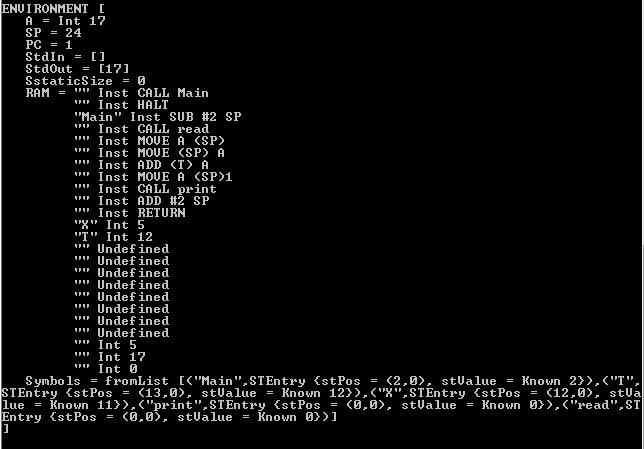
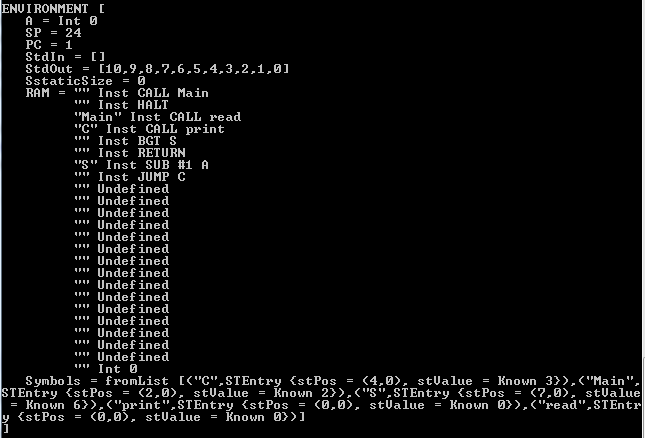
Added countdown program. Added to results in report.

Changed region(s): [[0.0, 0.0, 1.0, 1.0], [0.0621, 0.0, 0.1863, 0.089], [0.0, 0.0, 0.0311, 0.0297]]

diff --git a/report/Report.tex b/report/Report.tex
@@ -32,7 +32,7 @@ We did stuff. And more stuff, then stuff happened.
 \listoffigures
 
 \section{Introduction}
-The goal of this project was to create a program that could compile, execute and displaye a C program. It could then be used to go step-by-step through a C program in order to show how the memory and registers are effected by each line of C code. In order to learn functional programming and Mash as a template, this program was created using Haskell. The project could be divided into 5 separate sections, the C parser, the assembly parser, C to assembly code generation, the emulator and the GUI. These were then allocated to three groups, one group would create the C Parser, another the Assembly Parser and Symbol Table, and the last group the Emulator and GUI. The Code generation which converts a C Parse tree to an Assembly Parse tree was not assigned to any group. A diagram of this can be see in Figure \ref{fig:ProjectDiagram}.
+The goal of this project was to create a program that could compile, execute and displaye a C program. It could then be used to go step-by-step through a C program in order to show how the memory and registers are effected by each line of C code. In order to learn functional programming and Mash as a template, this program was created using Haskell. The project could be divided into 5 separate sections, the C parser, the assembly parser, C to assembly code generation, the emulator and the GUI. These were then allocated to three groups, one group would create the C Parser, another the Assembly Parser and Symbol Table, and the last group the Emulator and GUI. The Code generation which converts a C Parse tree to an Assembly Parse tree was not assigned to any group. A diagram of this can be see in Figure~\ref{fig:ProjectDiagram}.
 
 \begin{figure}[h]
 \centering
@@ -81,7 +81,7 @@ Upon review at the end of the project, many 'actions' within the emulator are re
 \subsubsection{Cross-Platform GUI Solution}
 The first task of our group was to determine how we would create a GUI using Haskell that could be completely cross-platform. Two methods were initially recommended, using Haskell to generate a HTML page that displayed everything, or using the GTK3 Hakell library to create an application window.
 
-The first test was using a HTML page with a small amount of JavaScript to make it interactive. A screenshot of the example page can be seen in figure \ref{fig:WebTest}. The idea was that once a program was compiled, it could generate this page with the all the program states loaded in as data. By using HTML, this file could then be opened on any system and the program could be looked at again without needing to be recompiled. However, it also had the huge drawback that the HTML page could not communicate with the emulator, which was too big a drawback for this project.
+The first test was using a HTML page with a small amount of JavaScript to make it interactive. A screenshot of the example page can be seen in figure~\ref{fig:WebTest}. The idea was that once a program was compiled, it could generate this page with the all the program states loaded in as data. By using HTML, this file could then be opened on any system and the program could be looked at again without needing to be recompiled. However, it also had the huge drawback that the HTML page could not communicate with the emulator, which was too big a drawback for this project.
 
 \begin{figure}[h]
 \centering
@@ -90,7 +90,7 @@ The first test was using a HTML page with a small amount of JavaScript to make i
 \label{fig:WebTest}
 \end{figure}
 
-The next step was to test GTK3, and an example application was also made for it. This test program used Glade to structure the application window and GTK3 to draw it to the screen. A screenshot of the test program can be seen in figure \ref{fig:GTK3Test}. As a demo, it had very limited interactivity, allowing you to  step through a handwritten list of program states and nothing could be modified. It did demonstrate that GTK3 would indeed be suitable for the project, however the use of Glade to position elements on the window was not very useful as most of the windows ended up being built using code.
+The next step was to test GTK3, and an example application was also made for it. This test program used Glade to structure the application window and GTK3 to draw it to the screen. A screenshot of the test program can be seen in figure~\ref{fig:GTK3Test}. As a demo, it had very limited interactivity, allowing you to  step through a handwritten list of program states and nothing could be modified. It did demonstrate that GTK3 would indeed be suitable for the project, however the use of Glade to position elements on the window was not very useful as most of the windows ended up being built using code.
 
 \begin{figure}[h]
 \centering
@@ -102,7 +102,7 @@ The next step was to test GTK3, and an example application was also made for it.
 \subsubsection{The Final Product}
 While using Glade supplied a very nice proof-of-concept implementation, it became quite difficult to manage the dynamic nature of the program.  Therefore it was decided that attempting to complete the project using Glade was dropped for an entirely code based approach.
 
-The final product follows from the proof-of-concept implementation but does of course emulate the assembly source code that it is given.  Unfortunately the C parsing was not completed so it was decided to abandon the C frame which is shown in the proof-of-concept implementation for more screen real estate.  The GUI has a main menu bar at the top which can be used to open other assembly source files.  Below the menu is a tool bar which presents play, stop, previous and next buttons.  This allows us to modify the assembly code and then run it much like other IDE's allow you to do.  Figures \ref{fig:screen_shot} and \ref{fig:screen_shot_running} show the final product when the assembly is editable and when it is begin emulated.
+The final product follows from the proof-of-concept implementation but does of course emulate the assembly source code that it is given.  Unfortunately the C parsing was not completed so it was decided to abandon the C frame which is shown in the proof-of-concept implementation for more screen real estate.  The GUI has a main menu bar at the top which can be used to open other assembly source files.  Below the menu is a tool bar which presents play, stop, previous and next buttons.  This allows us to modify the assembly code and then run it much like other IDE's allow you to do.  Figures~\ref{fig:screen_shot} and~ \ref{fig:screen_shot_running} show the final product when the assembly is editable and when it is begin emulated.
 
 The GUI runs in two states.  Firstly when the GUI first launches it is in "edit" mode.  This means that the assembly source code and stdin are editable.  Once the user wants to run the emulation they then press the "play" button.  This runs the emulation.  The user is then able to step through the program.
 
@@ -224,15 +224,31 @@ GTK3 runs everything through a main loop.  Therefore it uses an event-driven par
 Screenshots of the GUI and output of printing an environment I guess.
 
 \subsection{Emulation}
-It is a little hard to show the end result of running an emulation, however figure \ref{fig:EnvironmentResult} shows a printout of the final state of a program once it has been emulated. Every instruction that can be parsed has been tested to make sure it works in relation to the original machine design that was created.
+It is a little hard to show the end result of running an emulation, however figure~\ref{fig:EmulationResult} shows a printout of the final state of a program once it has been emulated. Every instruction that can be parsed has been tested to make sure it works in the way expected from the original machine design that was created.
 
 \begin{figure}[h]
     \centering
     \includegraphics[width=300px]{EmulationResult}
-    \caption{Printout of an Emulation state.}
-    \label{fig:EnvironmentResult}
+    \caption{Final state of countdown.ass after emulation.}
+    \label{fig:EmulationResult}
 \end{figure}
 
+The assembly program "countdown.ass" (figure~\ref{fig:CountdownCode}) was written to test out a number of parts within the emulator, such as comparisons and loops, with a semi-realistic function. The program takes an input and counts down until 0 printing each number as it goes. There may still be errors in the emulation in regards to more complex instructions using post/pre increments/decrements and indirection in unusual ways, however I feel all those mistakes have been found from the testing we've conducted.
+
+\begin{figure}[h]
+\begin{code}
+      CALL Main
+      HALT
+Main: CALL read
+   C: CALL print
+      BGT S
+      RETURN	
+   S: SUB #1 A
+      JUMP C
+\end{code}
+    \caption{Code for countdown.ass program.}
+    \label{fig:CountdownCode}
+\end{figure}
 
 \section{Conclusion}
 - ? Something goes here.
